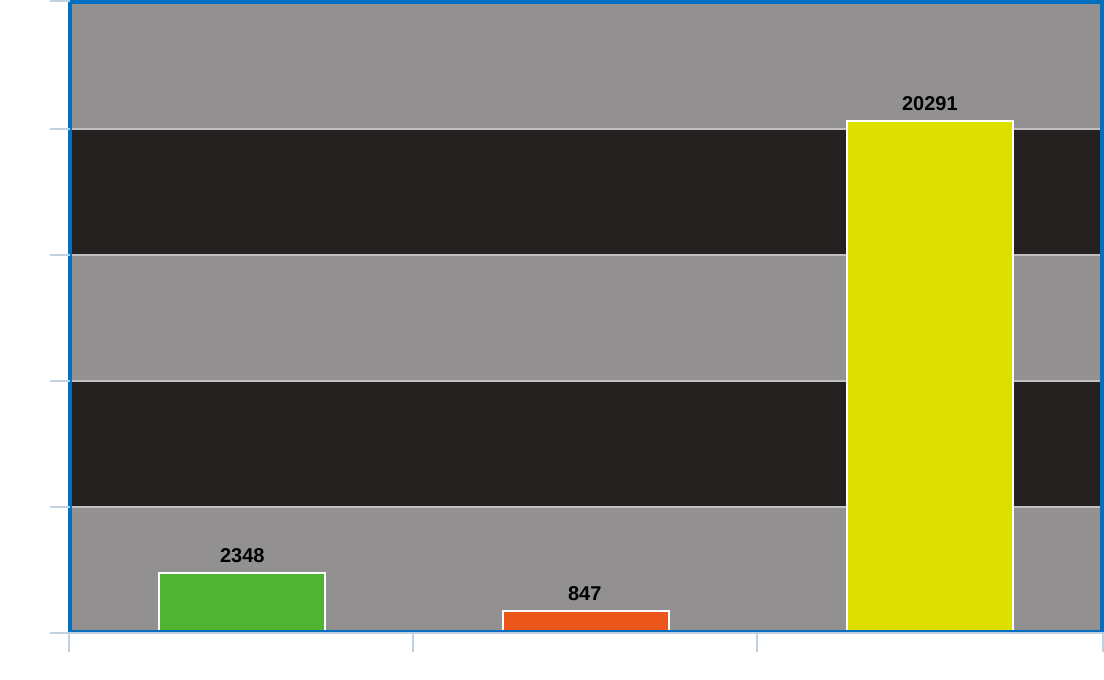
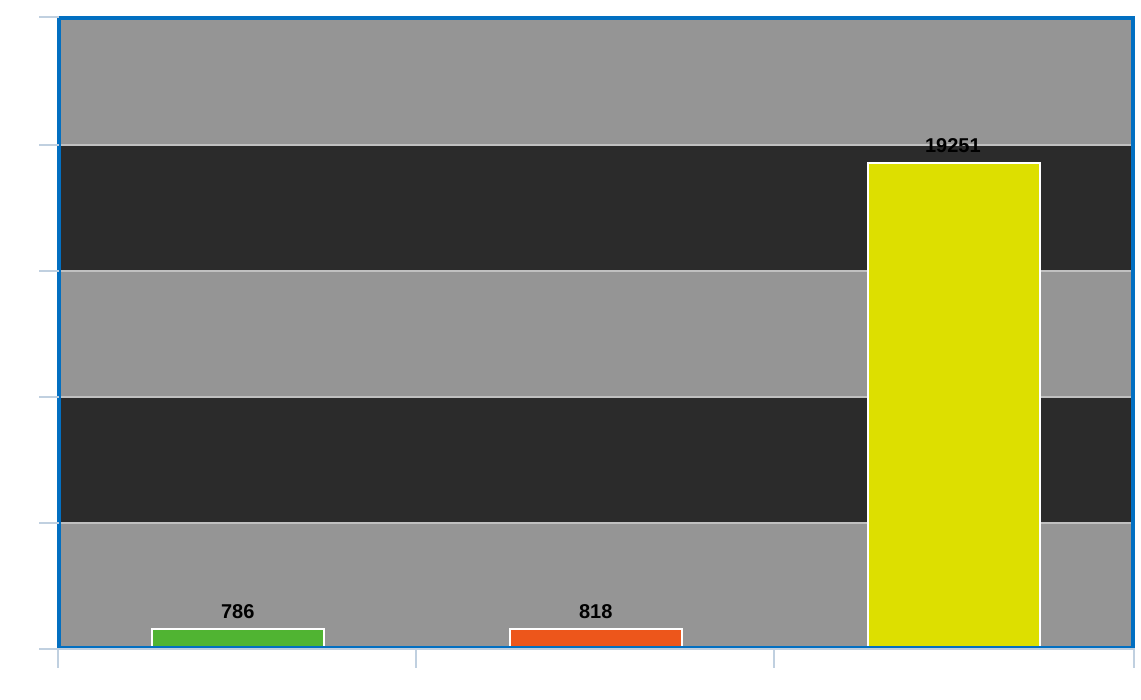
Performance improvements

Changed region(s): [[0.0308, 0.0, 1.0, 0.9574]]

diff --git a/docs/index.html b/docs/index.html
@@ -74,7 +74,7 @@
                 <div class="col-5 mt-5 ms-4">
                     <h1 class="text-white">Fast, Modular, Easy-to-learn</h1>
                     <p class="text-white lead">
-                        Build complex and modular web pages for your Spring Boot application using the Phoenix Tempalte
+                        Build complex and modular web pages for your Spring Boot application using the Phoenix Template
                         Engine. You can use the already-familiar Java syntax inside your HTML templates.
                     </p>
                     <p class="text-white lead">
@@ -105,10 +105,10 @@
                                 </svg></div>
                             <h5 class="text-white text-center align-middle lead"><span class="align-middle">The
                                     <code>`@`</code> character </span></h5>
-                            <p class="text-white">Only one special character, <code>`@`</code>, is used to differenciate
+                            <p class="text-white">Only one special character, <code>`@`</code>, is used to distinguish
                                 between HTML
-                                and Java code. You can easilly insert <code>for</code> or <code>if</code>, using only
-                                the <code>@</code> chracter before them. And many more...</p>
+                                and Java code. You can easily insert <code>for</code> or <code>if</code>, using only
+                                the <code>@</code> character before them. And many more...</p>
                         </div>
                     </div>
                     <div class="col-md-4 p-4">
@@ -122,7 +122,7 @@
                             <h5 class="text-white text-center align-middle lead"><span class="align-middle">Create
                                     modular templates</span></h5>
                             <p class="text-white">You can easilly define fragments or templates that can be reused and
-                                imported inside other templates. Furthermore, you can send HTML content blocks as input
+                                imported inside other templates. Further more, you can send HTML content blocks as input
                                 parameters.</p>
                         </div>
                     </div>
@@ -148,9 +148,9 @@
                                     <path fill="currentColor"
                                         d="M10.758 15.192q.452.452 1.18.415q.73-.038 1.078-.515l5.253-7.323l-7.361 5.216q-.496.334-.559 1.035t.409 1.172M5.1 19q-.28 0-.512-.141q-.232-.142-.392-.386q-.592-1.021-.894-2.158T3 14q0-1.864.71-3.506q.711-1.642 1.927-2.857Q6.852 6.42 8.494 5.71T12 5q1.858 0 3.485.698t2.852 1.901t1.938 2.817t.72 3.472q.005 1.24-.294 2.409t-.903 2.253q-.14.244-.382.347q-.241.103-.522.103z" />
                                 </svg></div>
-                            <h5 class="text-white text-center align-middle lead"><span class="align-middle">Fast rendering</span></h5>
+                            <h5 class="text-white text-center align-middle lead"><span class="align-middle">Fast, fast and fast</span></h5>
                             <p class="text-white">Phoenix templates are compiled into Java classes. This means that they
-                                are fast. Phoenix is still in early developemnt, however it features promissing results
+                                are fast. Phoenix is still in early development, however it features promising results
                                 compared to other popular template engines. The resulting
                                 HTML page is quickly assembled and ready to be returned from any controller using the
                                 <code>View.of()</code> syntax.
@@ -168,7 +168,7 @@
                                     routing</span></h5>
                             <p class="text-white">Phoenix supports reverse routing, meaning that endpoints are
                                 determined at runtime by the engine. If an endpoint changes in the controller you don't
-                                need to make any changes inside your template. And yes, dyanmic URLs are supported.</p>
+                                need to make any changes inside your template. And yes, dynamic URLs are supported.</p>
                         </div>
                     </div>
                     <div class="col-md-4 p-4">
@@ -181,7 +181,7 @@
                             <h5 class="text-white text-center align-middle lead"><span class="align-middle">Easy to
                                     integrate and configure</span></h5>
                             <p class="text-white">Phoenix can be integrated with any Spring Boot application. Just
-                                import the library and it's few dependencies. Configuration is also traight-forward.</p>
+                                import the library and it's few dependencies. Configuration is also straight-forward.</p>
                         </div>
                     </div>
                     <div class="col-md-4 p-4">
@@ -193,7 +193,7 @@
                                 </svg></div>
                             <h5 class="text-white text-center align-middle lead"><span class="align-middle">Rocker
                                     compatible</span></h5>
-                            <p class="text-white">Phoenix is almost 100% compatible with Rocker tempalte engine (WIP to
+                            <p class="text-white">Phoenix is almost 100% compatible with Rocker template engine (WIP to
                                 achieve full-compatibility) while offering more features. Migrate
                                 your existing webapps that use Rocker in just a few minutes!</p>
                         </div>
@@ -305,8 +305,8 @@
                                 aria-labelledby="v-pill-templates-tab">
                                 <h4 class="text-white">Define reusable templates</h4>
                                 <p>Define reusable components that you can combine to create complex web pages. Send
-                                    parameters and even content blocks with ease from one tempalte to another.
-                                    Furthermore, Phoenix allows you to retrieve components from the client-side using
+                                    parameters and even content blocks with ease from one template to another.
+                                    Further more, Phoenix allows you to retrieve components from the client-side using
                                     simple GET requests.</p>
                                 <div class="col-12">
                                     <div class="row">
@@ -341,7 +341,7 @@
                                 aria-labelledby="v-pill-java-tab">
                                 <h4 class="text-white">Import and use Java classes inside your template</h4>
                                 <p>You can send instances of your Java objects from the controller to the HTML
-                                    tempalte with ease and even use Java static imports</p>
+                                    template with ease and even use Java static imports</p>
                                 <pre>
                                         <code class="language-html">
 @import java.util.List;
@@ -430,7 +430,11 @@ public class TestController {
         <div class="row content-one shadow">
             <div class="col-md-6 mt-2">
                 <h4 class="text-center text-white">Some quick benchmarks</h4>
-                <p class="text-white">Phoenix in still in eary development, but it has promissing results. Some quick benchmarks show that it is a lot faster compared to Thymeleaf. Rocker is still faster at the moment, but I hope things will improve</p>
+                <p class="text-white">Phoenix in still in eary development and things may change in the future, but at
+                    the moment it has really good benchmarks. Look at the <a href="benchmarks.html">benchmark page</a> for more details, but Phoenix
+                    may be one of the fastest template engines currently available for Spring. In my rudimentary
+                    benchmark, Phoenix completed in under 800ms, orders of magnitude faster than Thymeleaf and even
+                    slightly faster than Rocker.</p>
                 <div class="benchmark">
                     <img src="img/benchmark.png" />
                 </div>
@@ -438,7 +442,7 @@ public class TestController {
             <div class="col-md-6 mt-2 text-white">
                 <h4 class="text-center text-white">Want to support the project?</h4>
                 <p>If you want to support the project in any way, feel free to contact me using the contact form from my
-                    blog. Phoenix is still in it's early stages and more work is needed to make it production ready, so
+                    blog. Phoenix is still in its early stages and more work is needed to make it production ready, so
                     any support is greatly appreciated</p>
                 <p>Considering offering financial support? Message me and we can talk about this as well.</p>
                 <p>Want to use Phoenix for your projects? GREAT! Share with us the link to your project/company and we

diff --git a/docs/css/style.css b/docs/css/style.css
@@ -144,3 +144,42 @@ body {
   height: 100%;
   width: 100%;
 }
+
+table.benchmarks {
+    border: 4px solid #215696;
+    background-color: #555555;
+    width: 350px;
+    text-align: center;
+    border-collapse: collapse;
+  }
+  table.benchmarks td, table.benchmarks th {
+    border: 1px solid #555555;
+    padding: 5px 2px;
+  }
+  table.benchmarks tbody td {
+    font-size: 13px;
+    font-weight: bold;
+    color: #FFFFFF;
+  }
+  table.benchmarks tr:nth-child(even) {
+    background: #0C092B;
+  }
+  table.benchmarks thead {
+    background: #243196;
+  }
+  table.benchmarks thead th {
+    font-size: 19px;
+    font-weight: bold;
+    color: #FFFFFF;
+    text-align: left;
+  }
+  table.benchmarks tfoot .links {
+    text-align: right;
+  }
+  table.benchmarks tfoot .links a{
+    display: inline-block;
+    background: #792396;
+    color: #FFFFFF;
+    padding: 2px 8px;
+    border-radius: 5px;
+  }

diff --git a/docs/specialChar.html b/docs/specialChar.html
@@ -72,7 +72,7 @@
             <div class="col-12 mt-2">
                 <h4 class="text-center text-white">The Special `@` character</h4>
                 <div class="row mt-4 p-1 text-white">
-                    <p>Phoenix uses a single character to differentite between HTML and Java code: <code>@</code>.
+                    <p>Phoenix uses a single character to differentiate between HTML and Java code: <code>@</code>.
                         Anywhere you want to insert tinamic content, prepend the <code>@</code> character and you are
                         set to go. This applies for any content block and can even be used to print variable values.</p>
 

diff --git a/src/main/java/tech/petrepopescu/phoenix/special/Stringifier.java b/src/main/java/tech/petrepopescu/phoenix/special/Stringifier.java
@@ -1,0 +1,80 @@
+package tech.petrepopescu.phoenix.special;
+
+import java.util.Map;
+
+public class Stringifier {
+    public static String toString(String string) {
+        return escape(string);
+    }
+
+    private static String escape(String str) {
+        if (str == null || str.isEmpty()) {
+            return str;
+        } else {
+            StringBuilder builder = null;
+            int prevPosition = 0;
+            for (int count = 0; count < str.length(); count++) {
+                char c = str.charAt(count);
+                String sanitized = switch (c) {
+                    case '"' -> "&quot;";
+                    case '&' -> "&amp;";
+                    case '\'' -> "&#39;";
+                    case '<' -> "&lt;";
+                    case '>' -> "&gt;";
+                    default -> null;
+                };
+
+                if (sanitized != null) {
+                    if (builder == null) {
+                         builder = new StringBuilder(str.length() + sanitized.length());
+                    }
+                    builder.append(str, prevPosition, count);
+                    prevPosition = count + 1;
+                    builder.append(sanitized);
+                }
+            }
+            if (builder != null) {
+                return builder.toString();
+            } else {
+                return str;
+            }
+        }
+    }
+
+
+    public static String toString(int value) {
+        return Integer.toString(value);
+    }
+
+    public static String toString(double value) {
+        return Double.toString(value);
+    }
+
+    public static String toString(float value) {
+        return Float.toString(value);
+    }
+
+    public static String toString(long value) {
+        return Long.toString(value);
+    }
+
+    public static String toString(char value) {
+        return Character.toString(value);
+    }
+
+    public static String toString(short value) {
+        return Short.toString(value);
+    }
+
+    public static String toString(byte value) {
+        return Byte.toString(value);
+    }
+
+    public static String toString(boolean value) {
+        return Boolean.toString(value);
+    }
+
+    public static String toString(Object object) {
+        return object.toString();
+    }
+}

diff --git a/src/main/java/tech/petrepopescu/phoenix/parser/TemplateFile.java b/src/main/java/tech/petrepopescu/phoenix/parser/TemplateFile.java
@@ -75,32 +75,8 @@ public class TemplateFile extends PhoenixFileParser {
 
         builder.append("\tpublic String getContent(PhoenixSpecialElementsUtil specialElementsUtil) {\n");
         builder.append("\t\t").append("final StringBuilder contentBuilder = new StringBuilder();\n");
-        for (int count = 0; count < lineElements.size(); count++) {
-            Element element = lineElements.get(count);
-            if (element instanceof HtmlElement htmlElement && !htmlElement.hasNextElement()) {
-                StringBuilder htmlCode = new StringBuilder();
-                htmlCode.append(VariableRegistry.getInstance().getStaticString(htmlElement.getVariableName()));
-                Element nextElement = null;
-                do {
-                    count++;
-                    if (count >= lineElements.size()) {
-                        break;
-                    }
-                    nextElement = lineElements.get(count);
-                    if (nextElement instanceof HtmlElement nextHtmlElement && !nextHtmlElement.hasNextElement()) {
-                        htmlCode.append("\n").append(VariableRegistry.getInstance().getStaticString(nextHtmlElement.getVariableName()));
-                    }
-                } while (nextElement instanceof HtmlElement nextHtmlElement && !nextHtmlElement.hasNextElement());
-                HtmlElement newHtmlElement = new HtmlElement(List.of(htmlCode.toString()), 0, elementFactory, htmlElement.getBuilderName());
-                newHtmlElement.parse(this.basePackage + "." + this.file.getName());
-                builder.append(newHtmlElement.write());
-                if (count < lineElements.size() - 1 && nextElement != null) {
-                    // So that we write the next element which we already know is not an HtmlElement
-                    builder.append(nextElement.write());
-                }
-            } else {
-                builder.append(element.write());
-            }
+        for (Element element : lineElements) {
+            builder.append(element.write());
         }
         builder.append("\t\treturn contentBuilder.toString();\n");
         builder.append("\t}\n");

diff --git a/src/test/java/tech/petrepopescu/phoenix/parser/elements/VariableElementTest.java b/src/test/java/tech/petrepopescu/phoenix/parser/elements/VariableElementTest.java
@@ -25,7 +25,7 @@ class VariableElementTest {
         VariableElement element = new VariableElement(List.of(line), 0, new ElementFactory(Set.of()), ElementFactory.DEFAULT_BUILDER_NAME);
         element.parse("");
 
-        String expected = "\t\tcontentBuilder.append(StringEscapeUtils.escapeHtml4(String.valueOf(a.b())));\n";
+        String expected = "\t\tcontentBuilder.append(Stringifier.toString(a.b()));\n";
 
         Assertions.assertEquals(expected, element.write().toString());
     }
@@ -36,7 +36,7 @@ class VariableElementTest {
         VariableElement element = new VariableElement(List.of(line), 0, new ElementFactory(Set.of()), ElementFactory.DEFAULT_BUILDER_NAME);
         element.parse("");
 
-        String expected = "\t\tcontentBuilder.append(StringEscapeUtils.escapeHtml4(String.valueOf(a.b().c())));\n";
+        String expected = "\t\tcontentBuilder.append(Stringifier.toString(a.b().c()));\n";
 
         Assertions.assertEquals(expected, element.write().toString());
     }
@@ -47,7 +47,7 @@ class VariableElementTest {
         VariableElement element = new VariableElement(List.of(line), 0, new ElementFactory(Set.of()), ElementFactory.DEFAULT_BUILDER_NAME);
         element.parse("");
 
-        String expected = "\t\tcontentBuilder.append(StringEscapeUtils.escapeHtml4(String.valueOf(a.b.c())));\n";
+        String expected = "\t\tcontentBuilder.append(Stringifier.toString(a.b.c()));\n";
 
         Assertions.assertEquals(expected, element.write().toString());
     }

diff --git a/src/test/java/tech/petrepopescu/phoenix/parser/elements/NullSafetyTernaryElementTest.java b/src/test/java/tech/petrepopescu/phoenix/parser/elements/NullSafetyTernaryElementTest.java
@@ -47,7 +47,7 @@ class NullSafetyTernaryElementTest {
         String line = "@myVar.myMethod()?:\"Alternative\"";
         NullSafetyTernaryElement element = new NullSafetyTernaryElement(List.of(line), 0, new ElementFactory(null), ElementFactory.DEFAULT_BUILDER_NAME);
         element.parse("");
-        String expected = "\t\tvar tmpVar_THISISUUID = StringEscapeUtils.escapeHtml4(String.valueOf(myVar.myMethod()));\n" +
+        String expected = "\t\tvar tmpVar_THISISUUID = Stringifier.toString(myVar.myMethod());\n" +
                 "\t\tif (tmpVar_THISISUUID != null) {\n" +
                 "\t\t\tcontentBuilder.append(tmpVar_THISISUUID);\n" +
                 "\t\t} else {\n" +

diff --git a/src/main/java/tech/petrepopescu/phoenix/parser/elements/VariableElement.java b/src/main/java/tech/petrepopescu/phoenix/parser/elements/VariableElement.java
@@ -20,7 +20,7 @@ public class VariableElement extends Element {
         if ("String".equals(VariableRegistry.getInstance().getType(fileName, variableName))) {
             this.evalExpression = "StringEscapeUtils.escapeHtml4(" + variableName + ")";
         } else if (StringUtils.contains(variableName, "(")) {
-            this.evalExpression = "StringEscapeUtils.escapeHtml4(String.valueOf(" + variableName + "))";
+            this.evalExpression = "Stringifier.toString(" + variableName + ")";
         } else {
             this.evalExpression = variableName;
         }
